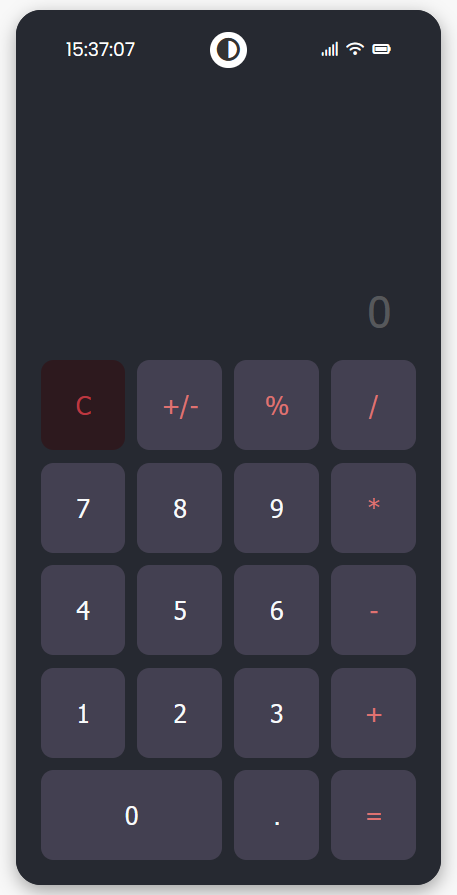
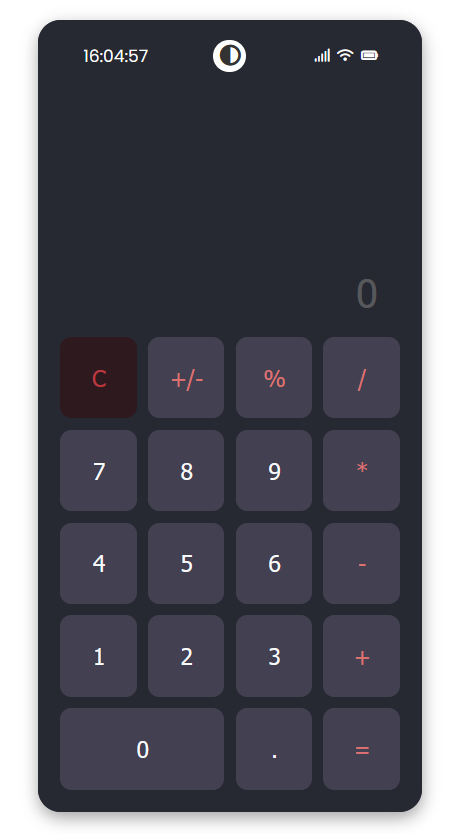
Update README.md

diff --git a/README.md b/README.md
@@ -24,7 +24,7 @@
 This project is redesigned from a <a href="https://dribbble.com/shots/14136491-Daily-UI-004-Calculator" target="_blank">dribbble</a> shot.
 <br />
 <div align="center">
-    <img src="./assets/Calculator-Demo.png" alt="" width="700">
+    <img src="./assets/Calculator-Demo.png" alt="" width="500" height="700">
 </div>
 
 What makes this product different is the pleasent experience you'll have, due to its dark and light theme and UI/UX Design.
